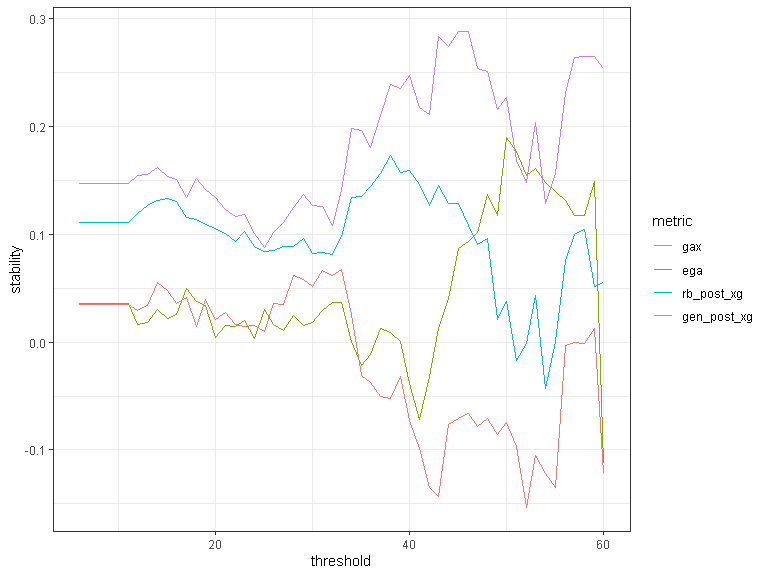
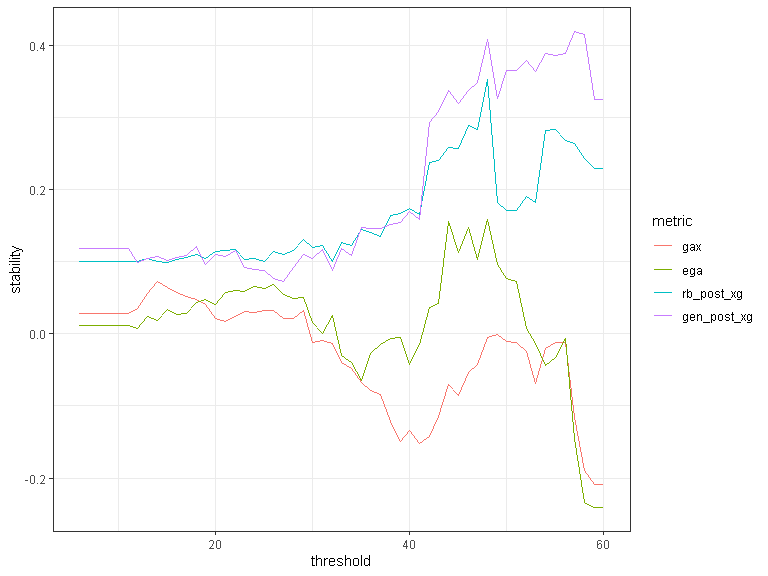
Distance and xG filter

diff --git a/reproduction/miss_it_like_messi.md b/reproduction/miss_it_like_messi.md
@@ -21,21 +21,21 @@ statsbomb_shots_processed |>
 
 | League | Season | num_shots |
 |:-------|-------:|----------:|
-| ARG    |   2019 |      3409 |
-| FR2    |   2018 |      4438 |
-| FR2    |   2019 |      3290 |
-| FR2    |   2020 |      4300 |
-| GR2    |   2018 |      4086 |
-| GR2    |   2019 |      4099 |
-| GR2    |   2020 |      3881 |
-| MLS    |   2018 |      5857 |
-| MLS    |   2019 |      6220 |
-| MLS    |   2020 |      4294 |
-| NED    |   2018 |      4571 |
-| NED    |   2019 |      3384 |
-| NED    |   2020 |      4198 |
-| USL    |   2019 |      2677 |
-| USL    |   2020 |      3823 |
+| ARG    |   2019 |      3206 |
+| FR2    |   2018 |      4183 |
+| FR2    |   2019 |      3100 |
+| FR2    |   2020 |      4016 |
+| GR2    |   2018 |      3810 |
+| GR2    |   2019 |      3836 |
+| GR2    |   2020 |      3593 |
+| MLS    |   2018 |      5448 |
+| MLS    |   2019 |      5830 |
+| MLS    |   2020 |      3992 |
+| NED    |   2018 |      4273 |
+| NED    |   2019 |      3186 |
+| NED    |   2020 |      3906 |
+| USL    |   2019 |      2471 |
+| USL    |   2020 |      3547 |
 
 ## Figure 1
 
@@ -292,13 +292,13 @@ stability_data |>
   knitr::kable()
 ```
 
-|               | goal_pct_b |     gax_b |     ega_b | rb_post_xg_b | gen_post_xg_b |
-|:--------------|-----------:|----------:|----------:|-------------:|--------------:|
-| goal_pct_a    |  0.2027644 | 0.0358458 | 0.0383046 |    0.1392865 |     0.1683077 |
-| gax_a         |  0.0439170 | 0.0353784 | 0.0249364 |    0.0406294 |     0.0556296 |
-| ega_a         |  0.0202310 | 0.0052795 | 0.0359962 |    0.0245264 |     0.0250102 |
-| rb_post_xg_a  |  0.1186972 | 0.0350171 | 0.0322936 |    0.1114649 |     0.1100598 |
-| gen_post_xg_a |  0.1344741 | 0.0253750 | 0.0322802 |    0.1223819 |     0.1474593 |
+|               | goal_pct_b |     gax_b |      ega_b | rb_post_xg_b | gen_post_xg_b |
+|:--------------|-----------:|----------:|-----------:|-------------:|--------------:|
+| goal_pct_a    |  0.1224854 | 0.0308243 |  0.0304649 |    0.0992770 |     0.1309764 |
+| gax_a         |  0.0301429 | 0.0278450 | -0.0003070 |    0.0245736 |     0.0477858 |
+| ega_a         |  0.0271270 | 0.0135368 |  0.0108632 |    0.0086925 |     0.0340898 |
+| rb_post_xg_a  |  0.0870198 | 0.0215710 |  0.0171080 |    0.0996360 |     0.1082299 |
+| gen_post_xg_a |  0.0953761 | 0.0182233 |  0.0232076 |    0.0929100 |     0.1175927 |
 
 ## Table 4
 
@@ -324,31 +324,31 @@ stability_data |>
   knitr::kable()
 ```
 
-|               | goal_pct_b |     gax_b |     ega_b | rb_post_xg_b | gen_post_xg_b |
-|:--------------|-----------:|----------:|----------:|-------------:|--------------:|
-| goal_pct_a    |  0.2860967 | 0.0409510 | 0.0257428 |    0.1121521 |     0.1276896 |
-| gax_a         |  0.0373490 | 0.0514288 | 0.0195463 |   -0.0370349 |    -0.0483255 |
-| ega_a         |  0.0019526 | 0.0365588 | 0.0183749 |   -0.0463147 |    -0.0933259 |
-| rb_post_xg_a  |  0.2276696 | 0.1149200 | 0.0735493 |    0.0822303 |     0.1087693 |
-| gen_post_xg_a |  0.2403670 | 0.1187846 | 0.0955591 |    0.0978408 |     0.1267675 |
+|               | goal_pct_b |      gax_b |      ega_b | rb_post_xg_b | gen_post_xg_b |
+|:--------------|-----------:|-----------:|-----------:|-------------:|--------------:|
+| goal_pct_a    |  0.1048948 | -0.0262012 | -0.0553941 |    0.0419397 |     0.0170022 |
+| gax_a         | -0.0261181 | -0.0120890 | -0.0626812 |   -0.0403664 |    -0.0690342 |
+| ega_a         |  0.0346861 |  0.0549648 |  0.0157283 |   -0.0342910 |    -0.0710838 |
+| rb_post_xg_a  |  0.1375641 |  0.0444550 |  0.0310336 |    0.1199744 |     0.1150164 |
+| gen_post_xg_a |  0.1533827 |  0.0622375 |  0.0242151 |    0.1164236 |     0.1044400 |
 
 ``` r
 stability_data |>
   dplyr::filter(n_a + n_b >= 50)
-#> # A tibble: 75 x 16
-#>    player Season first~1 rb_po~2 gen_p~3 goal_~4    gax_a    ega_a   n_a first~5
-#>    <fct>   <int> <lgl>     <dbl>   <dbl>   <dbl>    <dbl>    <dbl> <int> <lgl>  
-#>  1 Aleks~   2018 TRUE      0.183   0.183  0.192   0.0882   0.0334     26 FALSE  
-#>  2 Aleks~   2019 TRUE      0.177   0.176  0.0938  0.0423   0.0199     32 FALSE  
-#>  3 Alexa~   2019 TRUE      0.184   0.183  0.16    0.0592   0.0500     25 FALSE  
-#>  4 Andre~   2018 TRUE      0.190   0.188  0.167   0.0104   0.0360     24 FALSE  
-#>  5 Arthu~   2018 TRUE      0.193   0.198  0.16   -0.00140  0.0335     25 FALSE  
-#>  6 Bradl~   2018 TRUE      0.185   0.183  0.269   0.0913   0.0676     26 FALSE  
-#>  7 Brani~   2020 TRUE      0.186   0.189  0.133  -0.0304  -0.00890    30 FALSE  
-#>  8 Bryan~   2018 TRUE      0.175   0.173  0.08   -0.0276  -0.00542    25 FALSE  
-#>  9 Carlo~   2018 TRUE      0.172   0.164  0.111   0.0491   0.0122     27 FALSE  
-#> 10 Carlo~   2019 TRUE      0.183   0.183  0.311   0.157    0.0655     45 FALSE  
-#> # ... with 65 more rows, 6 more variables: rb_post_xg_b <dbl>,
+#> # A tibble: 49 x 16
+#>    player  Season first~1 rb_po~2 gen_p~3 goal_~4   gax_a    ega_a   n_a first~5
+#>    <fct>    <int> <lgl>     <dbl>   <dbl>   <dbl>   <dbl>    <dbl> <int> <lgl>  
+#>  1 Aleksa~   2018 TRUE      0.178   0.182  0.16    0.0795  0.0330     25 FALSE  
+#>  2 Aleksa~   2019 TRUE      0.173   0.170  0.0938  0.0423  0.0199     32 FALSE  
+#>  3 Alexan~   2019 TRUE      0.178   0.178  0.125   0.0460  0.0496     24 FALSE  
+#>  4 Branim~   2020 TRUE      0.176   0.175  0.115  -0.0335 -0.00227    26 FALSE  
+#>  5 Carlos~   2018 TRUE      0.178   0.182  0.111   0.0491  0.0122     27 FALSE  
+#>  6 Carlos~   2019 TRUE      0.180   0.181  0.220   0.123   0.0547     41 FALSE  
+#>  7 Carlos~   2018 TRUE      0.179   0.174  0.111   0.0160  0.00209    27 FALSE  
+#>  8 Cristi~   2018 TRUE      0.176   0.174  0.0968  0.0264  0.0445     31 FALSE  
+#>  9 Cristi~   2019 TRUE      0.174   0.165  0.0345 -0.0201  0.0220     29 FALSE  
+#> 10 David ~   2018 TRUE      0.175   0.172  0.167   0.0539  0.0820     30 FALSE  
+#> # ... with 39 more rows, 6 more variables: rb_post_xg_b <dbl>,
 #> #   gen_post_xg_b <dbl>, goal_pct_b <dbl>, gax_b <dbl>, ega_b <dbl>, n_b <int>,
 #> #   and abbreviated variable names 1: first_half_season_a, 2: rb_post_xg_a,
 #> #   3: gen_post_xg_a, 4: goal_pct_a, 5: first_half_season_b
